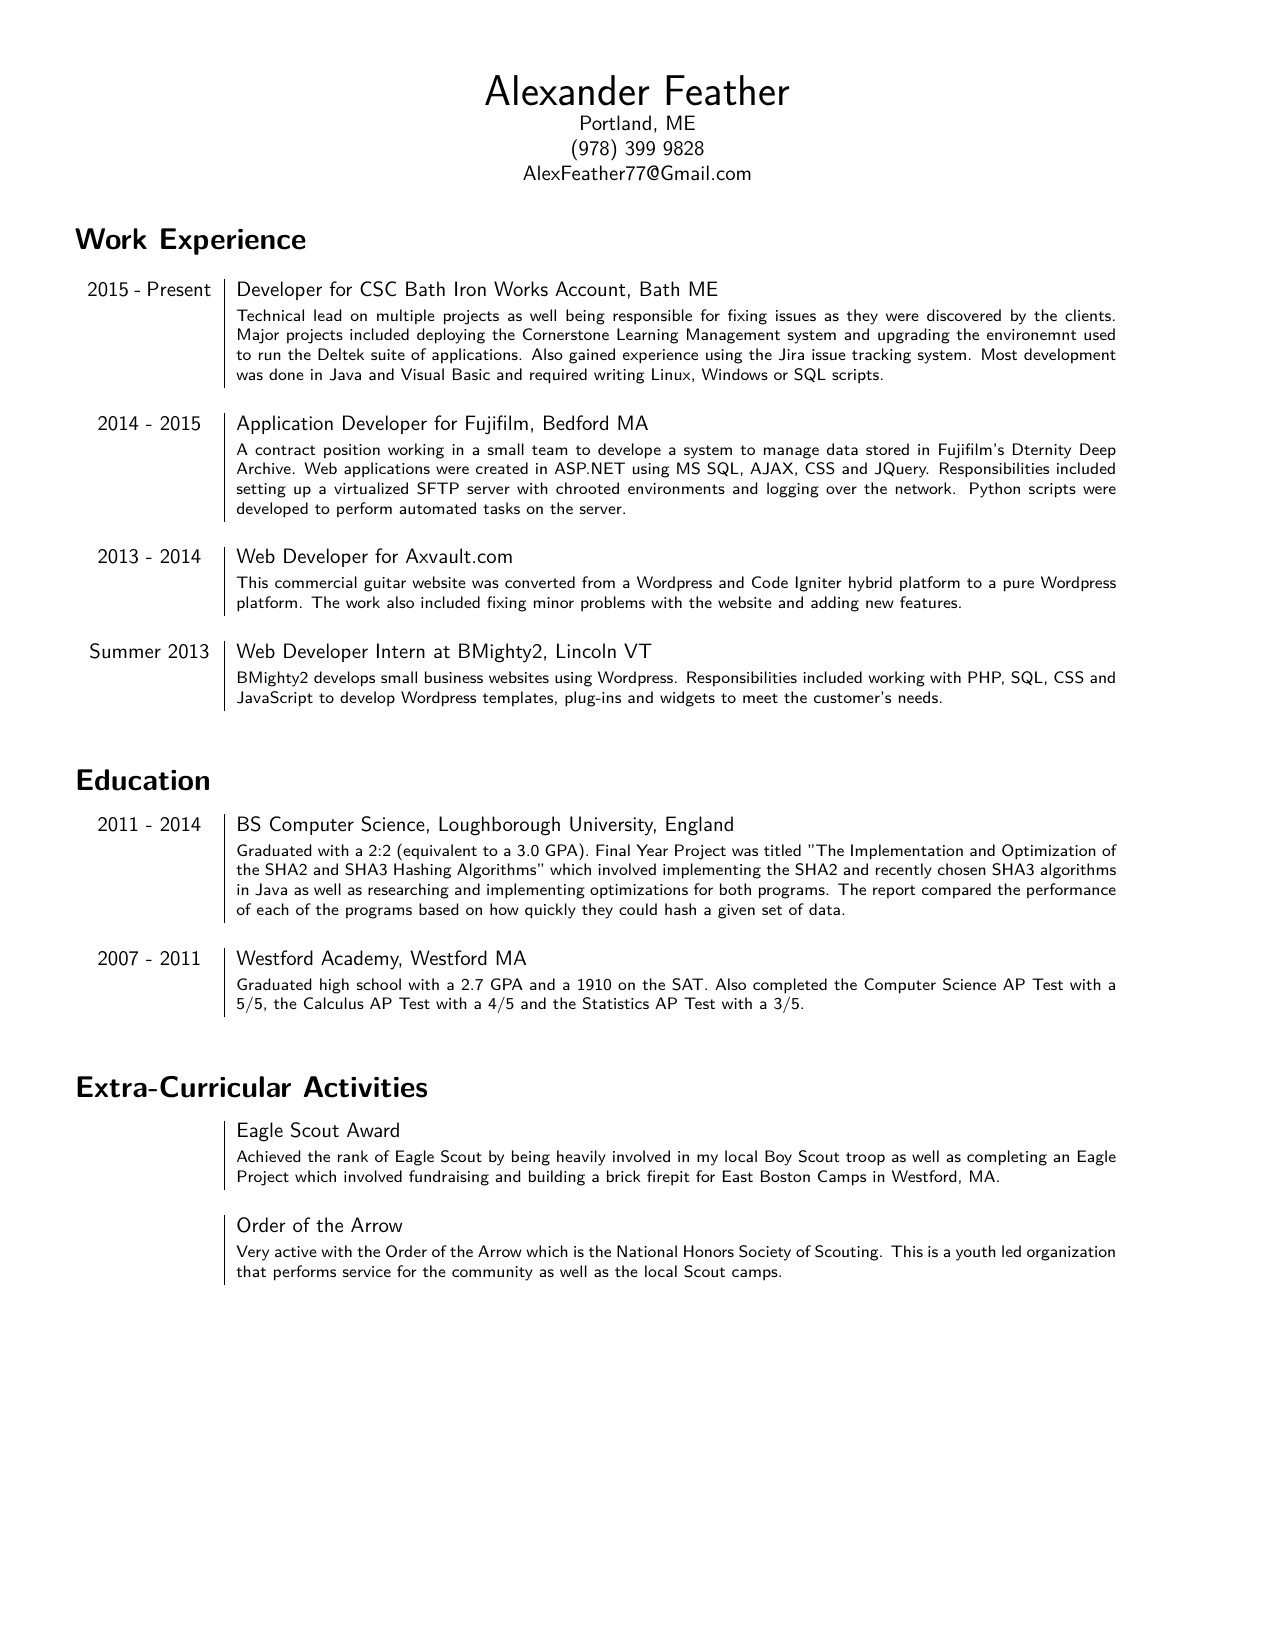
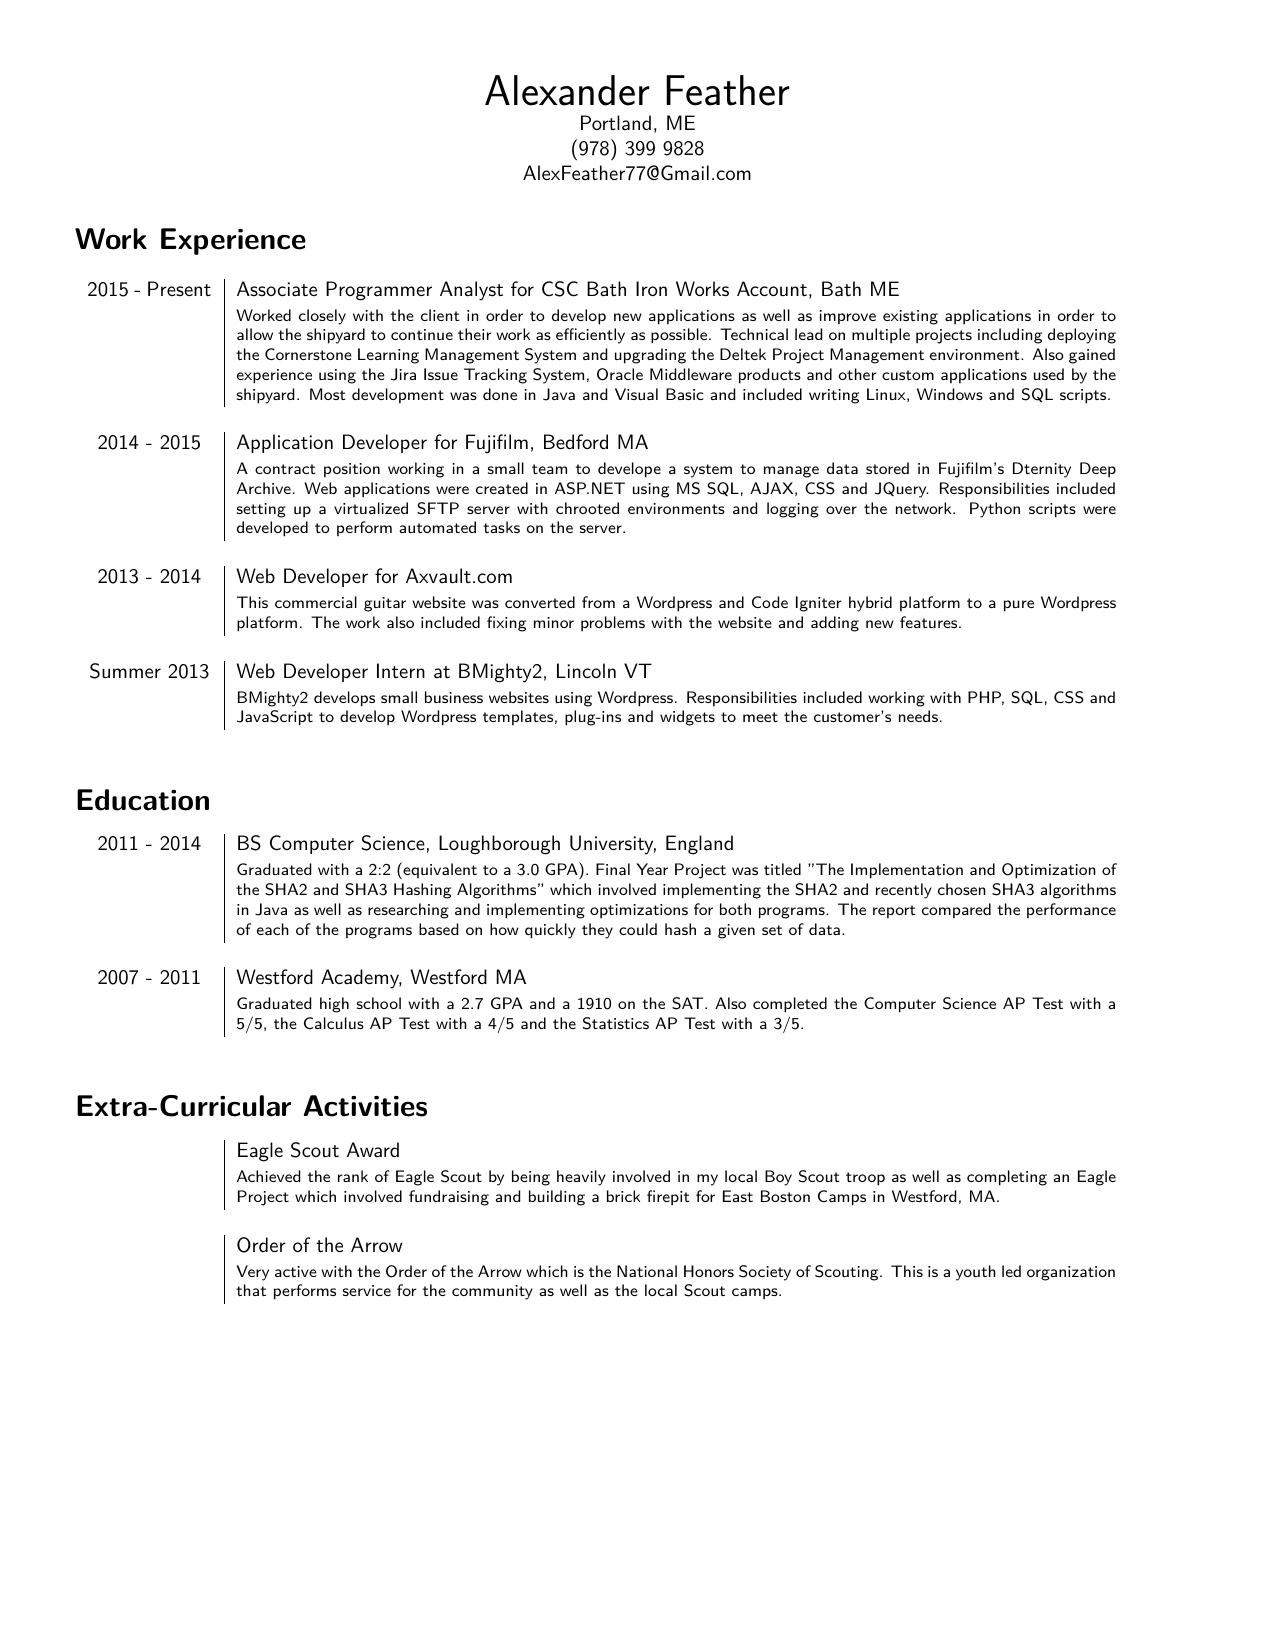
Updated Resume Files

diff --git a/Resume.tex b/Resume.tex
@@ -12,7 +12,7 @@ Portland, ME\\(978) 399 9828\\AlexFeather77@Gmail.com\\}
 
 \section*{\fontfamily{lmss}\selectfont Work Experience}
 \begin{tabular}{p{2.1cm}|p{14.9cm}}
-	2015 - Present & Developer for CSC Bath Iron Works Account, Bath ME\\&\footnotesize{Technical lead on multiple projects as well being responsible for fixing issues as they were discovered by the clients. Major projects included deploying the Cornerstone Learning Management system and upgrading the environemnt used to run the Deltek suite of applications. Also gained experience using the Jira issue tracking system. Most development was done in Java and Visual Basic and required writing Linux, Windows or SQL scripts.}\\\multicolumn{2}{c}{} \\
+	2015 - Present & Associate Programmer Analyst for CSC Bath Iron Works Account, Bath ME\\&\footnotesize{Worked closely with the client in order to develop new applications as well as improve existing applications in order to allow the shipyard to continue their work as efficiently as possible. Technical lead on multiple projects including deploying the Cornerstone Learning Management System and upgrading the Deltek Project Management environment. Also gained experience using the Jira Issue Tracking System, Oracle Middleware products and other custom applications used by the shipyard. Most development was done in Java and Visual Basic and included writing Linux, Windows and SQL scripts.}\\\multicolumn{2}{c}{} \\
 	\centering 2014 - 2015 & Application Developer for Fujifilm, Bedford MA\\&\footnotesize{A contract position working in a small team to develope a system to manage data stored in Fujifilm's Dternity Deep Archive. Web applications were created in ASP.NET using MS SQL, AJAX, CSS and JQuery. Responsibilities included setting up a virtualized SFTP server with chrooted environments and logging over the network. Python scripts were developed to perform automated tasks on the server.}\\\multicolumn{2}{c}{} \\
 	\centering 2013 - 2014 & Web Developer for Axvault.com\\&\footnotesize{This commercial guitar website was converted from a Wordpress and Code Igniter hybrid platform to a pure Wordpress platform. The work also included fixing minor problems with the website and adding new features.}\\\multicolumn{2}{c}{} \\
 	\centering Summer 2013 & Web Developer Intern at BMighty2, Lincoln VT\\&\footnotesize{BMighty2 develops small business websites using Wordpress. Responsibilities included working with PHP, SQL, CSS and JavaScript to develop Wordpress templates, plug-ins and widgets to meet the customer's needs.}\\\multicolumn{2}{c}{} \\
